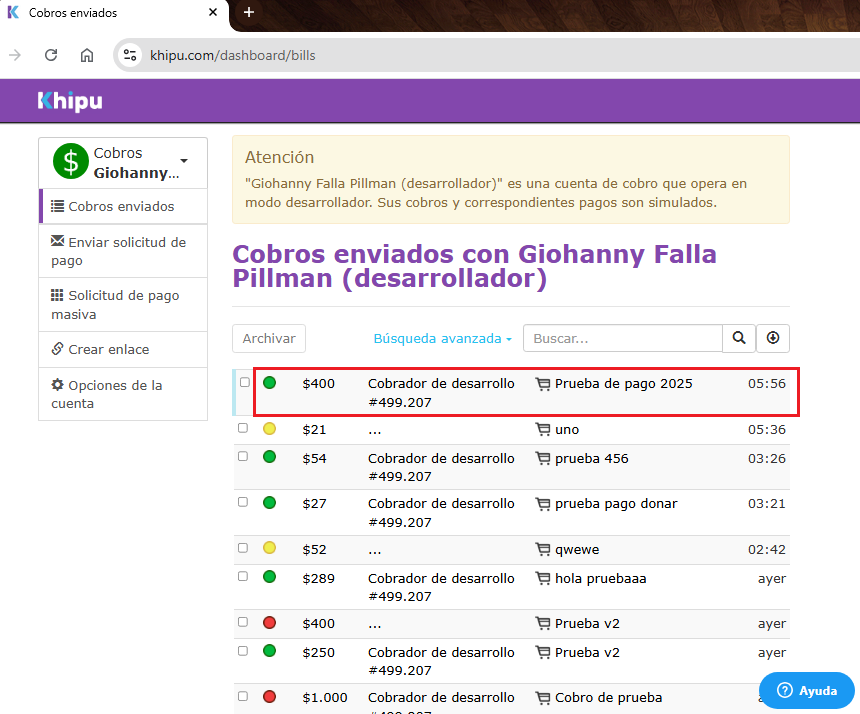
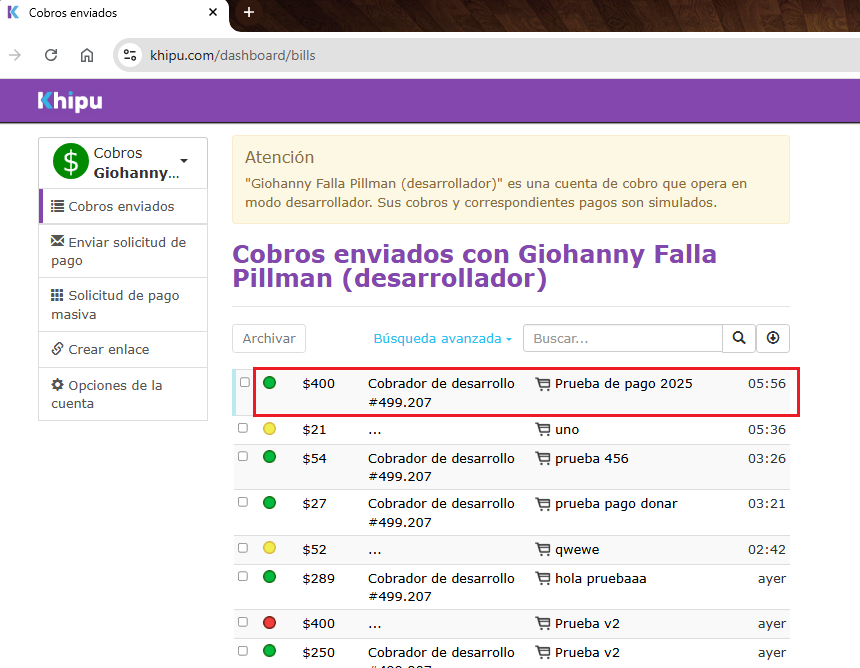
:bulb: arreglando imagenes

diff --git a/README.md b/README.md
@@ -1,12 +1,12 @@
-# Khipu Integration :money_with_wings:
+# Khipu Integration 💸
 
 Integración de Khipu usando la [API Khipu Pagos Instantáneos](https://docs.khipu.com/openapi/es/v1/instant-payment/openapi/overview/) en modo desarrollador
 
-## Configuración previa
+## 🔨 Configuración previa
 1. Creación de cuenta de desarrollador en Khipu Developers
 2. Creación de API Key
 
-## Pasos para la integración
+## 🚀 Pasos para la integración
 1. Simulación del sitio de compra. Maqueteado en HTML y CSS
 
 2. Creación de pago con [API create payment](https://docs.khipu.com/openapi/es/v1/instant-payment/openapi/operation/postPayment/). Fetch al API con Javascript `https://payment-api.khipu.com/v3/payments`
@@ -15,7 +15,7 @@ Integración de Khipu usando la [API Khipu Pagos Instantáneos](https://docs.khi
 
 4. Visualización los cobros en el dashboard en modo desarrollador https://khipu.com/dashboard/bills
 
-## Uso de este repositorio
+## 🎯 Uso de este repositorio
 
 1. Clonar este repositorio
 2. Abrir el archivo `index.html` en el navegador
@@ -25,22 +25,22 @@ Integración de Khipu usando la [API Khipu Pagos Instantáneos](https://docs.khi
 ├── index.html          # Maqueteado de tienda virtual
 ├── fetchAPI.js         # Llamado al API Khipu
 ├── style.css           # Estilos CSS
-├── evidenciaImagenes   # Imagenes de apoyo 
+├── evidenciaImagenes   # Imagenes de apoyo
 └── README.md          
 ```
 
-## Evidencia de integración exitosa
+## 📸 Evidencia de integración exitosa
 
 
 | :one: Simular tienda virtual  | :two: Agregar los campos |
 | :-- |:--|
-| <img src="./evidenciaImagenes/imagen 1.png" />    | <img src="./evidenciaImagenes/imagen 22.png" />   |
+| <img src="./evidenciaImagenes/imagen 11.png" />    | <img src="./evidenciaImagenes/imagen 22.png" />   |
 | *Realizar maqueteado de prueba con HTML y CSS* | *Llenar los campos obligatorios* |
 
 
 | :three: Seleccionar Banco  | :four: Ingresar con RUT |
 | :-- |:--|
-| <img src="./evidenciaImagenes/imagen 33.png" />    | <img src="./evidenciaImagenes/imagen 4.png" />   |
+| <img src="./evidenciaImagenes/imagen 33.png" />    | <img src="./evidenciaImagenes/imagen 44.png" />   |
 | *Para modo desarrollador seleccionar DemoBank* | *Usar RUT ficticio* |
 
 
